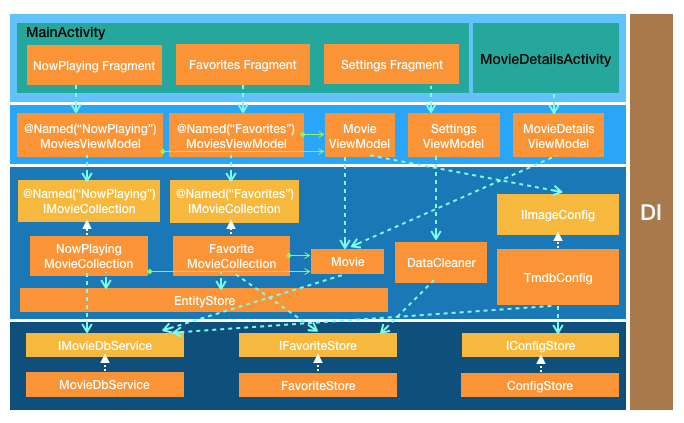
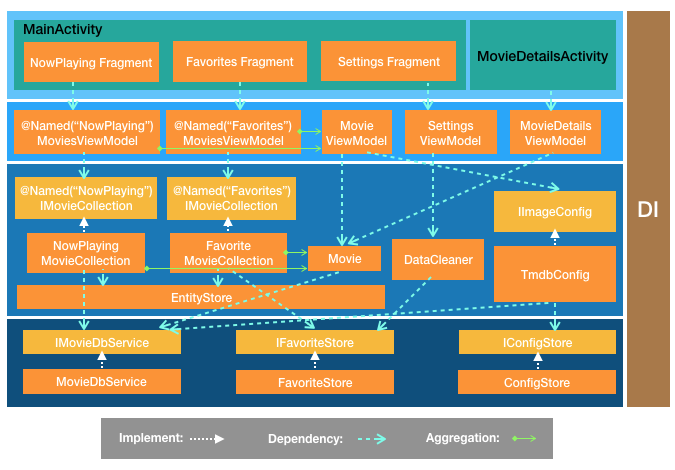
Update components graph.

diff --git a/README_zh.md b/README_zh.md
@@ -56,7 +56,7 @@
 * Model层是整个应用的领域模型，应与UI和平台无关。换句话说，就是既不依赖于应用的交互及UI设计，也不依赖于安卓平台。（本项目中依赖了SparseArray，但只是出于性能的需要，如果有必要可随时替换。）
 * Repository层是对数据访问的抽象，包括本地数据（Shared Preferences, SQLite数据库）及外部Web APIs。
 ### 主要组件
-![](https://s1.ax1x.com/2018/04/11/Ckvg0O.png)
+![](https://s1.ax1x.com/2018/04/11/CAZ46U.png)
 
 大部分的类名的含义都很明显。不是那么明显的：
 * [`TmdbConfig`](app/src/main/java/com/github/brianspace/moviebrowser/models/TmdbConfig.java)：用于处理来自TMDb网站的配置信息。参见<https://developers.themoviedb.org/3/configuration/get-api-configuration>。[`IImageConfig`](app/src/main/java/com/github/brianspace/moviebrowser/models/IImageConfig.java)是供上面的View Model层获取图片路径的接口。
